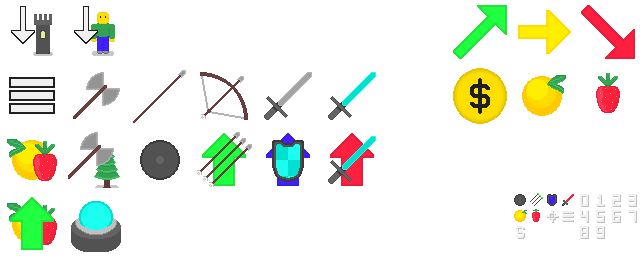
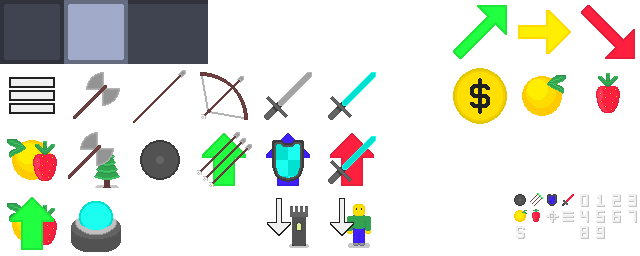
indexing of some assets

Changed region(s): [[0.0, 0.0, 0.3438, 0.25], [0.4062, 0.7812, 0.5938, 0.9688]]

diff --git a/src/game/values/shared.cpp b/src/game/values/shared.cpp
@@ -13,6 +13,12 @@ namespace Values {
 	const sf::Vector2i tileOff = { tileUnit, tileUnit * 3 / 4 };
 	/// Offset of a tile level.
 	const sf::Vector2i tileLevel = { 0, tileUnit / 8 };
+
+	/// Size of icon texture.
+	const sf::Vector2i iconTex = { 16, 16 };
+	/// Size of rendered icon.
+	const sf::Vector2i iconSize = iconTex * k;
+
 	/// Thickness of map backplane border.
 	const sf::Vector2i mapBorder = { tileUnit / 2, tileUnit / 2 };
 
@@ -24,6 +30,10 @@ namespace Values {
 	/// Returns a 64x64 texture map.
 	sf::IntRect coords(int x, int y) {
 		return { { x * tileTex.x, y * tileTex.y }, tileTex };
+	};
+	/// Returns a tile in 16x16 texture map with a 64x64 offset.
+	sf::IntRect coords(int x, int y, int dx, int dy) {
+		return { { x * tileTex.x + dx * iconTex.x, y * tileTex.y + dy * iconTex.y }, iconTex };
 	};
 
 	/// Missing texture replacement.

diff --git a/include/game/values/shared.hpp b/include/game/values/shared.hpp
@@ -17,6 +17,12 @@ namespace Values {
 	extern const sf::Vector2i tileOff;
 	/// Offset of a tile level.
 	extern const sf::Vector2i tileLevel;
+
+	/// Size of icon texture.
+	extern const sf::Vector2i iconTex;
+	/// Size of rendered icon.
+	extern const sf::Vector2i iconSize;
+
 	/// Thickness of map backplane border.
 	extern const sf::Vector2i mapBorder;
 
@@ -27,6 +33,11 @@ namespace Values {
 
 	/// Returns a tile in 64x64 texture map.
 	sf::IntRect coords(int x, int y);
+	/// Returns a tile in 16x16 texture map with a 64x64 offset.
+	/// 
+	/// @param x,y 64x64 coordinates.
+	/// @param dx,dy 16x16 offset.
+	sf::IntRect coords(int x, int y, int dx, int dy);
 
 	/// Missing texture replacement.
 	extern const sf::IntRect missing;
